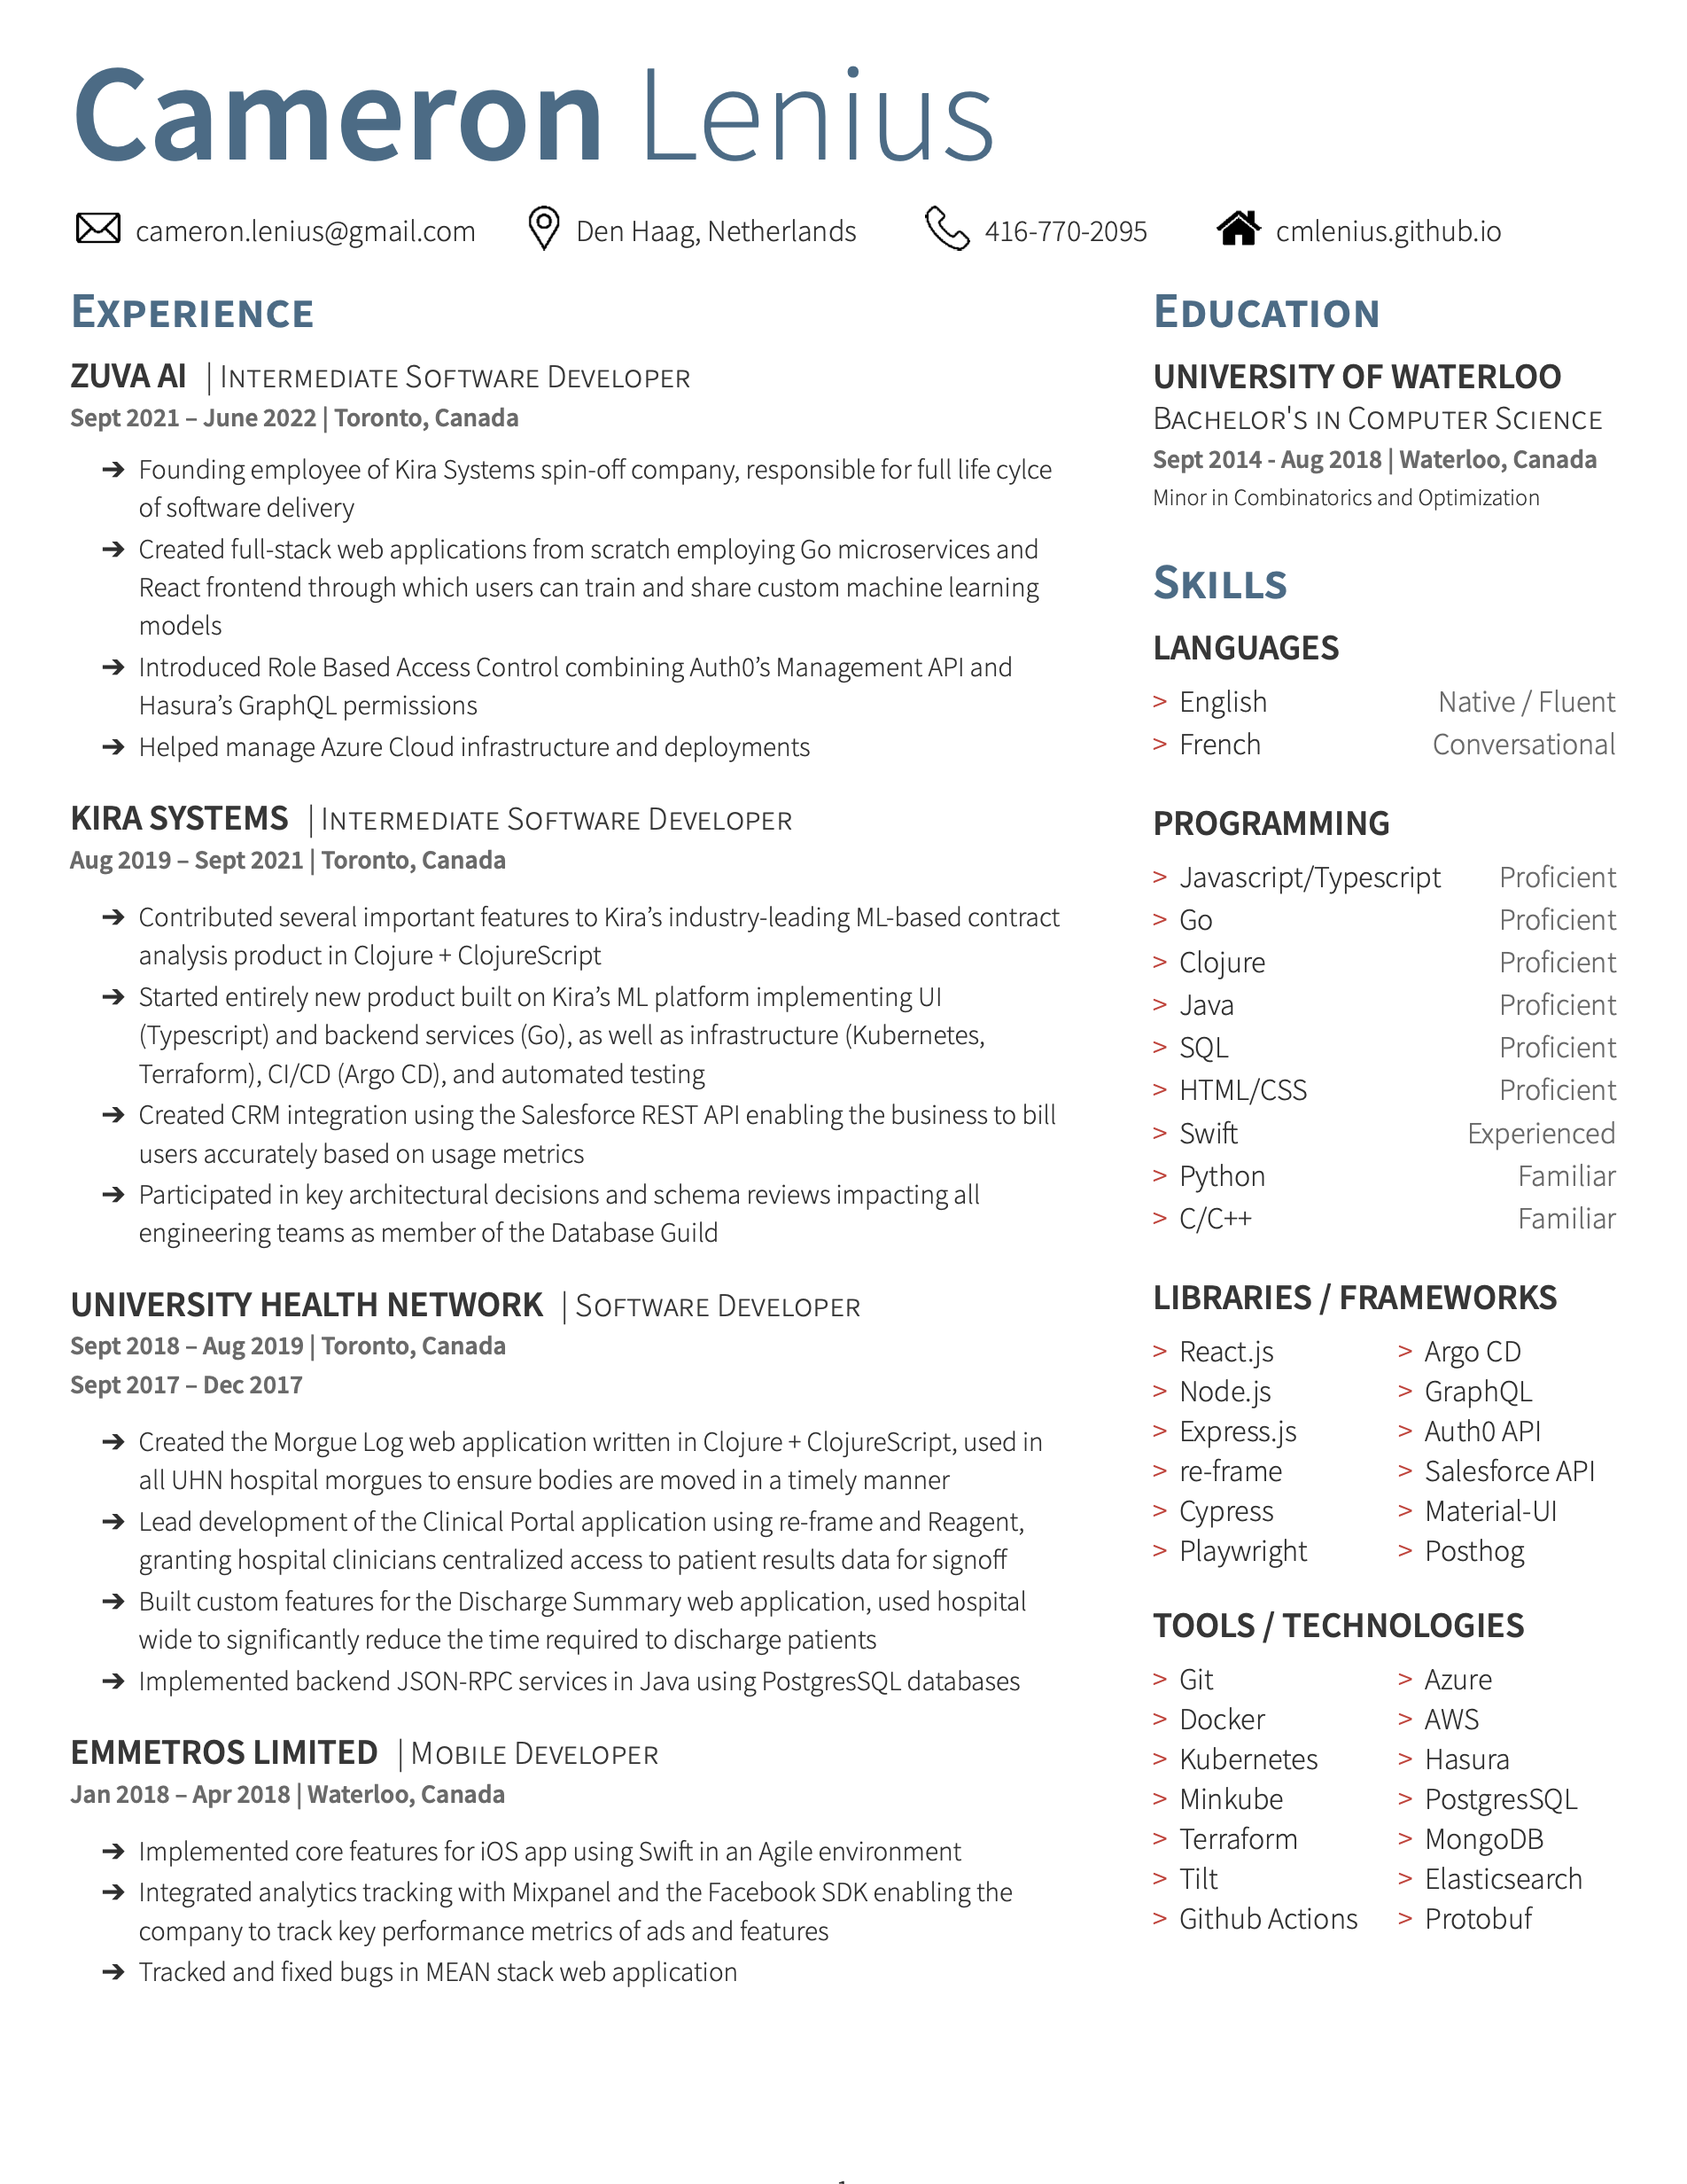
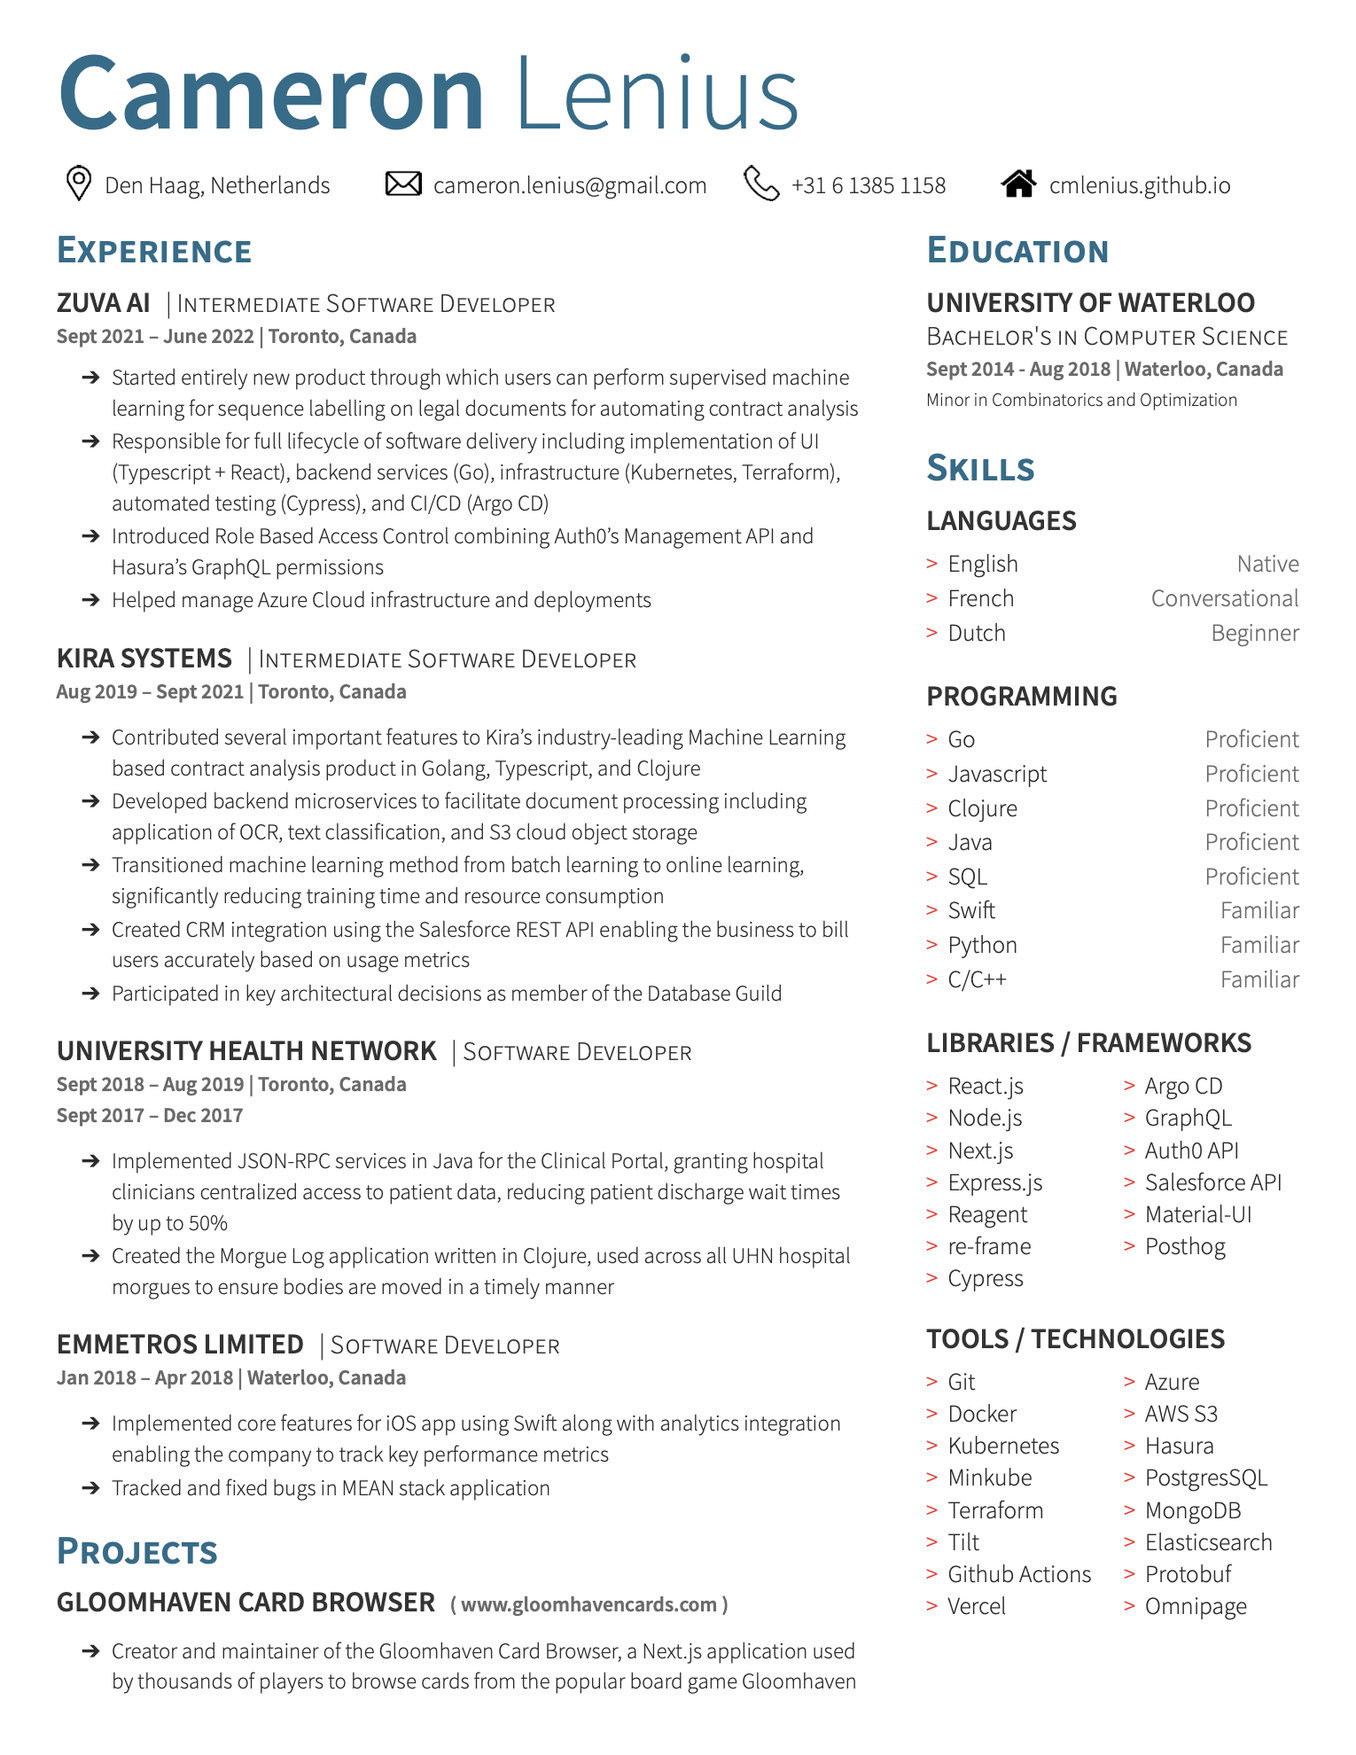
Add gloomhaven project, reword experience

diff --git a/resume.tex b/resume.tex
@@ -1,5 +1,6 @@
 \documentclass[]{resume}
 \usepackage{anyfontsize}
+\pagenumbering{gobble}
 \begin{document}
 
 %%%%%%%%%%%%%%%%%%%%%%%%%%%%%%%%%%%%%%
@@ -9,9 +10,9 @@
 \namesection{Cameron}{Lenius}
 \separatorL
 \contactline
-  {\href{mailto:cameron.lenius@gmail.com}{cameron.lenius@gmail.com}}
   {Den Haag, Netherlands}
-  {416-770-2095}
+  {\href{mailto:cameron.lenius@gmail.com}{cameron.lenius@gmail.com}}
+  {+31 6 1385 1158}
   {\href{cmlenius.github.io}{cmlenius.github.io}}
 \separatorS
 
@@ -28,8 +29,8 @@
 \vspace{\topsep} % TODO fix this hack
 \separatorS
 \begin{tightemize}
-\item Founding employee of Kira Systems spin-off company, responsible for full life cycle of software delivery 
-\item Created Full-Stack SaaS web applications employing Go microservices and React frontend through which users can perform supervised learning for sequence labelling on legal documents and share their ML models with other users
+\item Started entirely new product through which users can perform supervised machine learning for sequence labelling on legal documents for automating contract analysis
+\item Responsible for full lifecycle of software delivery including implementation of UI (Typescript + React), backend services (Go), infrastructure (Kubernetes, Terraform), automated testing (Cypress), and CI/CD (Argo CD)
 \item Introduced Role Based Access Control combining Auth0's Management API and Hasura's GraphQL permissions
 \item Helped manage Azure Cloud infrastructure and deployments
 \end{tightemize}
@@ -40,10 +41,11 @@
 \location{Aug 2019 – Sept 2021 | Toronto, Canada}
 \separatorS
 \begin{tightemize}
-\item Contributed several important features to Kira's industry-leading Machine Learning based contract analysis product in Clojure + ClojureScript
-\item Started entirely new product used to assist lawyers in contract negotiation through automated contract analysis and review. Implemented UI (Typescript) and backend services (Go), as well as infrastructure (Kubernetes, Terraform), CI/CD (Argo CD), and automated testing
+\item Contributed several important features to Kira's industry-leading Machine Learning based contract analysis product in Golang, Typescript, and Clojure
+\item Developed backend microservices to facilitate document processing including application of OCR, text classification, and S3 cloud object storage
+\item Transitioned machine learning method from batch learning to online learning, significantly reducing training time and resource consumption
 \item Created CRM integration using the Salesforce REST API enabling the business to bill users accurately based on usage metrics
-\item Participated in key architectural decisions and schema reviews impacting all engineering teams as member of the Database Guild
+\item Participated in key architectural decisions as member of the Database Guild
 \end{tightemize}
 \separatorM
 
@@ -53,23 +55,31 @@
 \location{Sept 2017 – Dec 2017}
 \separatorS
 \begin{tightemize}
-\item Created the Morgue Log web application written in Clojure + ClojureScript, used in all UHN hospital morgues to ensure bodies are moved in a timely manner
-\item Lead development of the Clinical Portal application using re-frame and Reagent, granting hospital clinicians centralized access to patient results data for signoff
-\item Built custom features for the Discharge Summary web application, used hospital wide to significantly reduce the time required to discharge patients
-\item Implemented backend JSON-RPC services in Java using PostgresSQL databases
+\item Implemented JSON-RPC services in Java for the Clinical Portal, granting hospital clinicians centralized access to patient data, reducing patient discharge wait times by up to 50\%
+\item Created the Morgue Log application written in Clojure, used across all UHN hospital morgues to ensure bodies are moved in a timely manner
 \end{tightemize}
 \separatorM
 
 \describedsubsection{Emmetros Limited}
-\descript{| Mobile Developer }
+\descript{| Software Developer }
 \location{Jan 2018 – Apr 2018 | Waterloo, Canada}
 \separatorS
 \begin{tightemize}
-\item Implemented core features for iOS app using Swift in an Agile environment
-\item Integrated analytics tracking with Mixpanel and the Facebook SDK enabling the company to track key performance metrics of ads and features
-\item Tracked and fixed bugs in MEAN stack web application
+\item Implemented core features for iOS app using Swift along with analytics integration enabling the company to track key performance metrics
+\item Tracked and fixed bugs in MEAN stack application
 \end{tightemize}
-\separatorM
+ 
+%%%%%%%%%%%%%%%%%%%%%%%%%%%%%%%%%%%%%%
+%     Projects
+%%%%%%%%%%%%%%%%%%%%%%%%%%%%%%%%%%%%%%
+
+\section{Projects}
+\describedsubsection{Gloomhaven Card Browser}
+\location{( {\href{https://www.gloomhavencards.com}{www.gloomhavencards.com}} )}
+\separatorS
+\begin{tightemize}
+\item Creator and maintainer of the Gloomhaven Card Browser, a Next.js application used by thousands of players to browse cards from the popular board game Gloomhaven
+\end{tightemize}
  
 \end{minipage} 
 \hfill
@@ -93,8 +103,9 @@
 \section{Skills}
 \subsection{Languages}
 \separatorS
-\skillproficiency{English}{Native / Fluent}
+\skillproficiency{English}{Native}
 \skillproficiency{French}{Conversational}
+\skillproficiency{Dutch}{Beginner}
 \separatorL
  
 \subsection{Programming}
@@ -115,6 +126,7 @@
 \columnbreak
 \skill{React.js}
 \skill{Node.js}
+\skill{Next.js}
 \skill{Express.js}
 \skill{Reagent}
 \skill{re-frame}
@@ -139,6 +151,7 @@
 \skill{Terraform}
 \skill{Tilt}
 \skill{Github Actions}
+\skill{Vercel}
 \columnbreak
 \skill{Azure}
 \skill{AWS S3}
@@ -147,6 +160,7 @@
 \skill{MongoDB}
 \skill{Elasticsearch}
 \skill{Protobuf}
+\skill{Omnipage}
 \end{multicols}
 \separatorM
  
